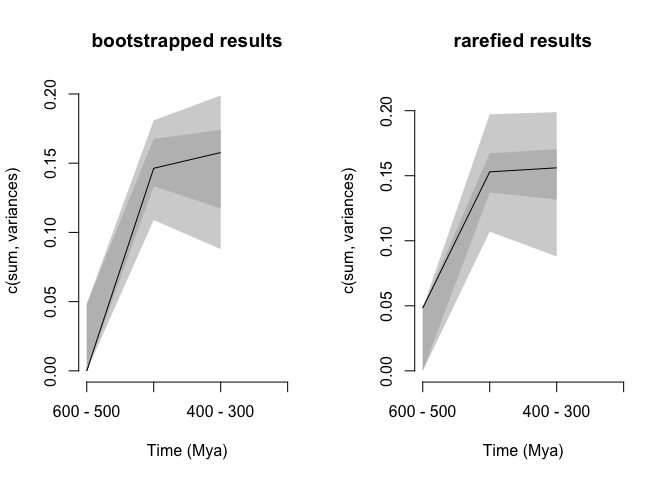
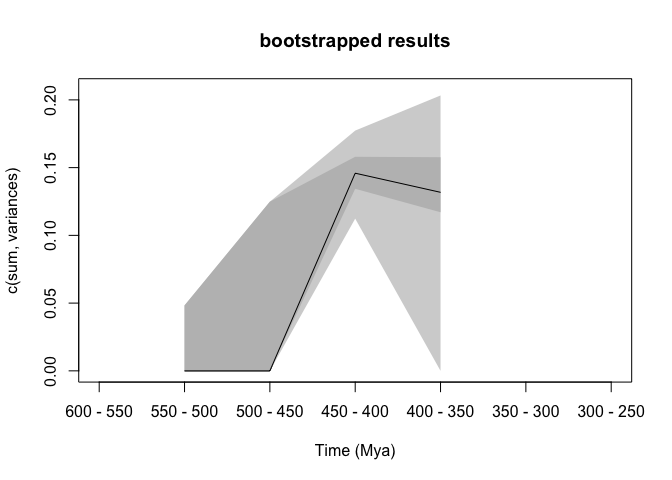
Modified Rmd

diff --git a/dispRity_Pipeline/dispRity_pipeline.md b/dispRity_Pipeline/dispRity_pipeline.md
@@ -3,7 +3,7 @@ Early vertebrates dispRity pipeline
 RPDearden
 06/11/2018
 
-This is a test of the functionalities of dispRity, using the matrix from [Keating *et al.* 2016](http://rspb.royalsocietypublishing.org/content/283/1826/20152917). The tree is a majority rule consensus I obtained by running the dataset in PAUP\*, and the dates are cobbled together from the literature.
+This is me having a play with the functionalities of dispRity, using the matrix from [Keating *et al.* 2016](http://rspb.royalsocietypublishing.org/content/283/1826/20152917). The tree is a majority rule consensus I obtained by running the dataset in PAUP\*, and the dates are cobbled together from the literature.
 
 ### Preliminaries
 
@@ -55,7 +55,7 @@ DatedKtree<-DatePhylo(Ktree, Kdates, method="equal", rlen=1)
 Make time bins (random 50my)
 
 ``` r
-time_bins <- rev(seq(from = 200, to = 600, by = 100))
+time_bins <- rev(seq(from = 250, to = 600, by = 50))
 ```
 
 Split dataset into subsets
@@ -81,12 +81,17 @@ rare_disparity_Kdata <- dispRity(rare_bin_Kdata, metric = c(sum, variances))
 Plot it up
 
 ``` r
-quartz(width = 10, height = 5) ; par(mfrow = (c(1,2)), bty = "n")
+#quartz(width = 10, height = 5) ; par(mfrow = (c(1,2)), bty = "n")
 plot(boot_disparity_Kdata, type = "continuous", main = "bootstrapped results")
-plot(rare_disparity_Kdata, type = "continuous", main = "rarefied results")
 ```
 
 ![](dispRity_pipeline_files/figure-markdown_github/unnamed-chunk-11-1.png)
+
+``` r
+plot(rare_disparity_Kdata, type = "continuous", main = "rarefied results")
+```
+
+![](dispRity_pipeline_files/figure-markdown_github/unnamed-chunk-11-2.png)
 
 Testing bins difference - won't work with this dataset as not enough data
 

diff --git a/Goals and Questions.md b/Goals and Questions.md
@@ -1,0 +1,26 @@
+Early vertebrates goals and questions
+================
+
+#Disparity#
+
+##Aims##
+* Compare disparity by phylogenetic group
+* Test to ascertain significant differences
+* Test disparity through time
+* Get overall plot
+
+##Outstanding stuff to check/fix##
+* How best to calculate distances
+* Pros and cons of different methods - read up
+* How to sensibly timeslice
+* How to sample tree to work with
+
+#Character rate#
+
+##Aims##
+* Measure overall rate of character rate through time
+* Identify clades that have undergone particularly fast/slow rates of change
+
+##Outstanding stuff to check/fix##
+* How to dichotomise tree
+* How to sample tree to work with
